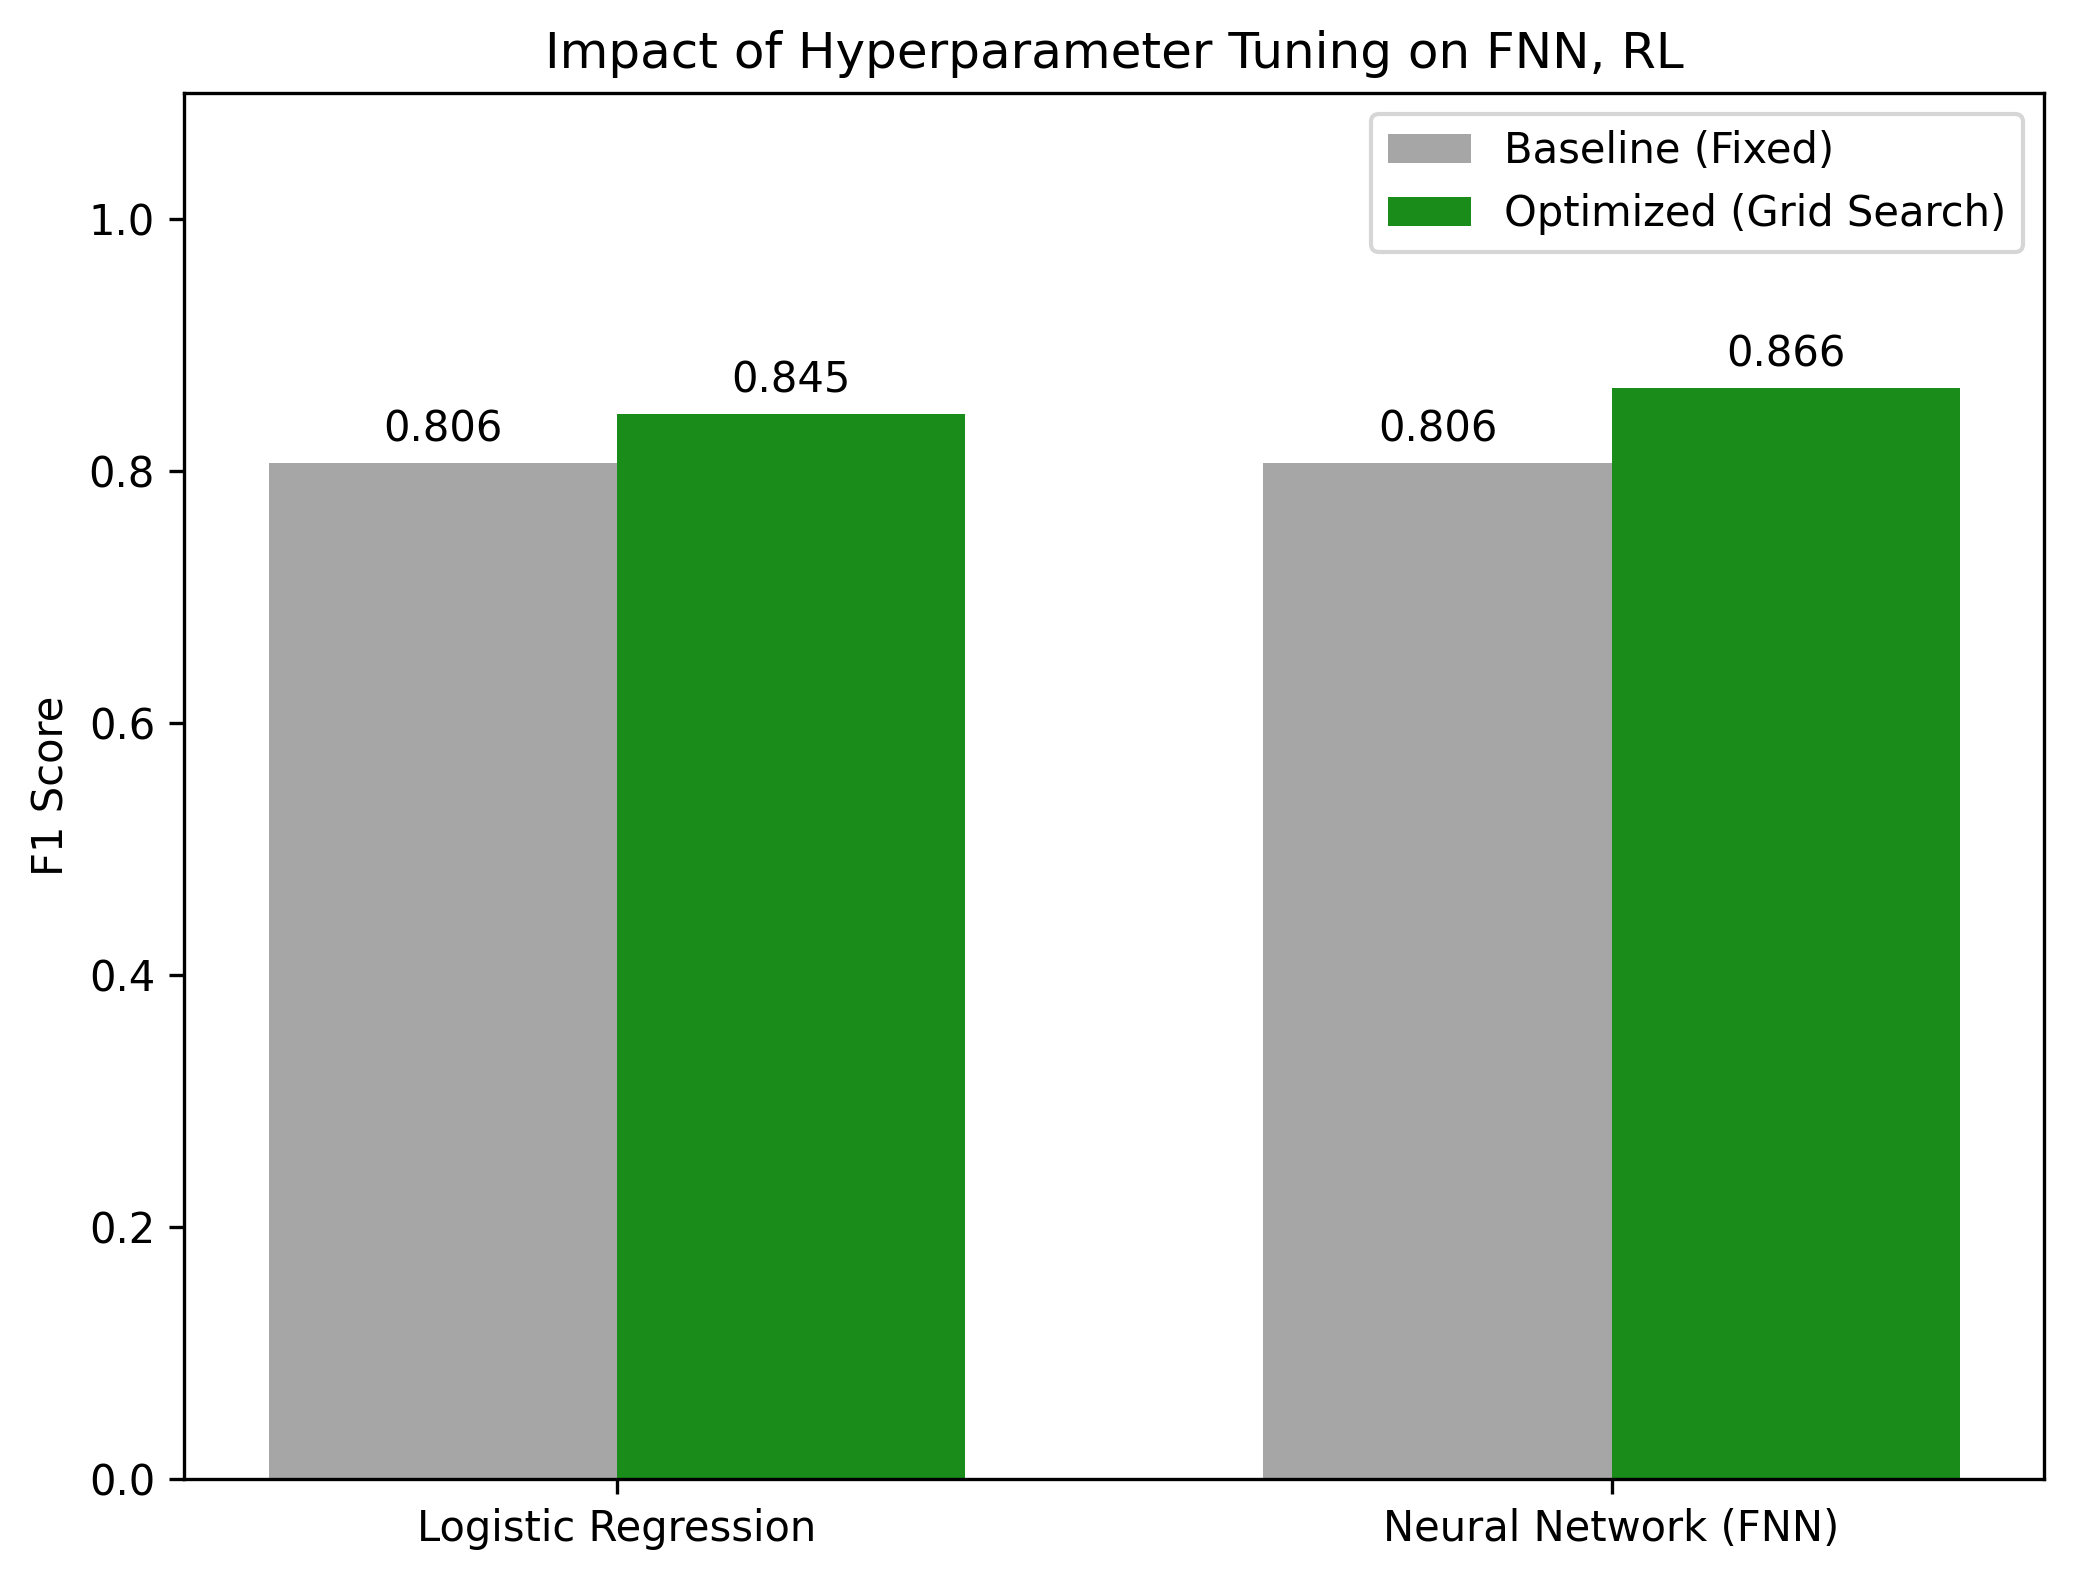
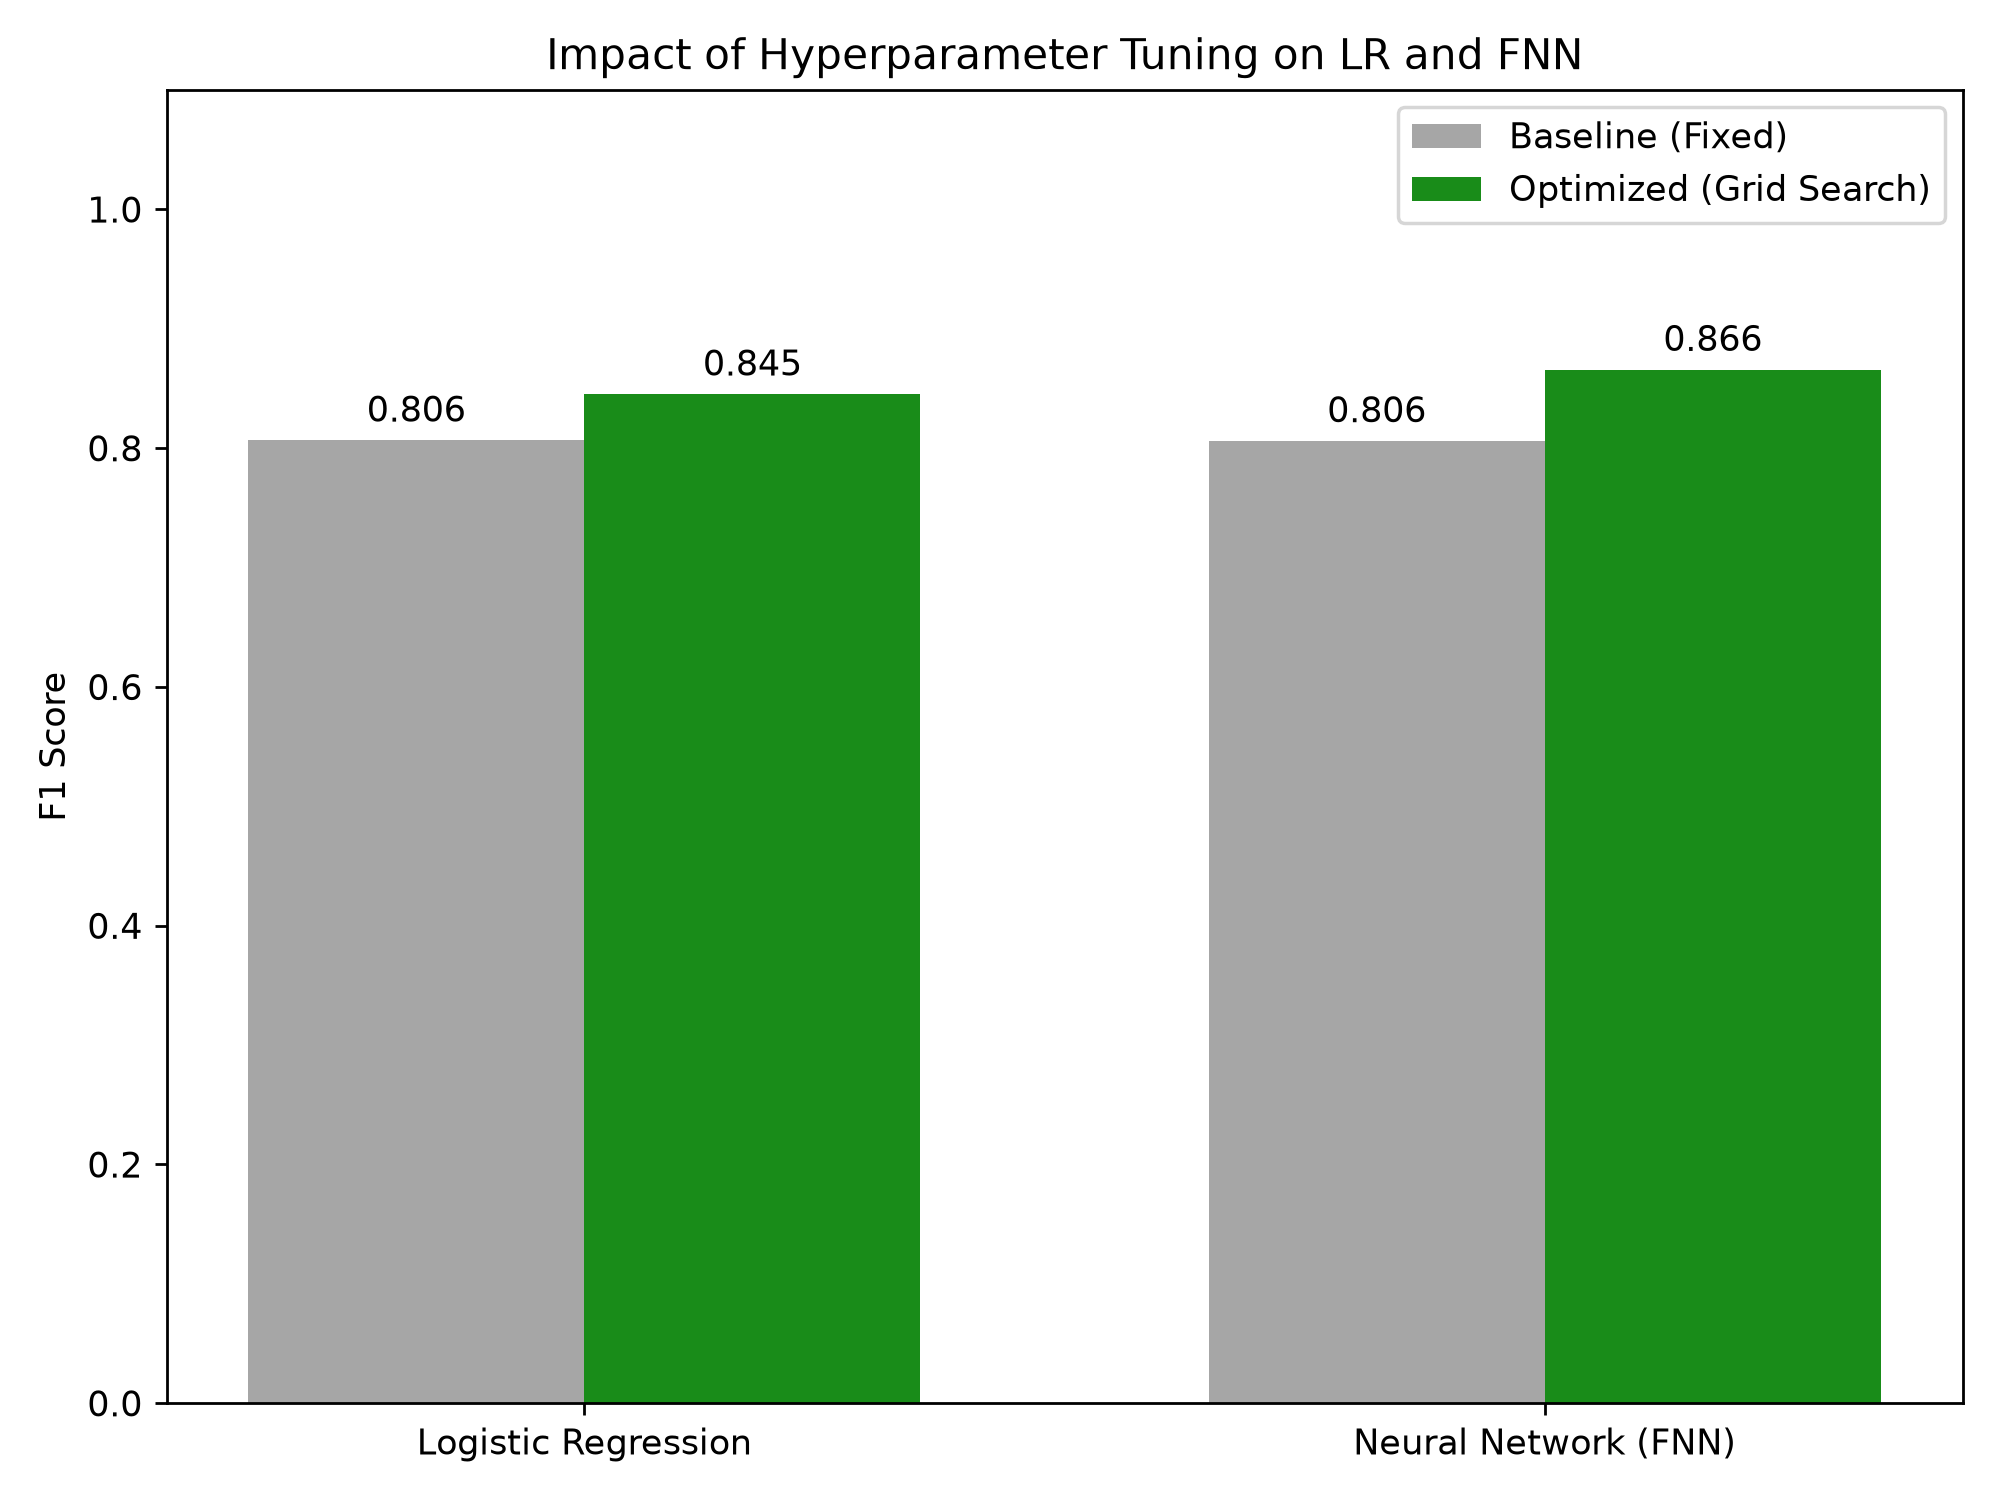
Regenerate stability figure and fix chart labels

diff --git a/neural_shadows.py b/neural_shadows.py
@@ -229,34 +229,34 @@ def run_single_trial(verbose=True):
 # -----------------------------------------------------------------------------
 # 5. EXPERIMENTS
 # -----------------------------------------------------------------------------
-METHODS = ["LogReg", "Random Forest", "FNN", "Shadow SVM"]
-COLORS = ["gray", "gray", "purple", "blue"]
+METHODS = ["Logistic regression", "Random forest", "Feedforward network", "RBF SVM"]
+COLORS = ["#9e9e9e", "#5f7f99", "#8e44ad", "#3f51b5"]
 
 
 def part_a(outdir):
     """Representative single trial; saves the dataset and a bar chart."""
     print("--- Executing Representative Trial ---")
     lr_s, rf_s, fnn_s, svm_s, X_final, y_final = run_single_trial()
-    print(f"Logistic Regression F1: {lr_s:.4f}")
-    print(f"Random Forest F1:       {rf_s:.4f}")
-    print(f"FNN F1 Score:           {fnn_s:.4f}")
-    print(f"Shadow SVM F1:          {svm_s:.4f}")
+    for name, score in zip(METHODS, (lr_s, rf_s, fnn_s, svm_s)):
+        print(f"{name + ':':<21}{score:.4f}")
 
     df = pd.DataFrame(X_final, columns=[f"feat_{i}" for i in range(16)])
     df["label"] = y_final
     df.to_csv(os.path.join(outdir, "quantum_shadow_dataset.csv"), index=False)
 
     scores = [lr_s, rf_s, fnn_s, svm_s]
-    plt.figure(figsize=(9, 5))
-    bars = plt.bar(METHODS, scores, color=COLORS)
-    plt.ylim(0, 1.05)
-    plt.ylabel("F1 Score")
-    plt.title(f"Single Trial Performance (N={N_SAMPLES}, T={T_SNAPSHOTS})")
+    fig, ax = plt.subplots(figsize=(9, 5))
+    bars = ax.bar(METHODS, scores, color=COLORS)
+    ax.set_ylim(0, 1.05)
+    ax.set_ylabel("F1 score")
+    ax.set_title(f"Single trial (N={N_SAMPLES}, T={T_SNAPSHOTS})")
     for bar in bars:
-        plt.text(bar.get_x() + bar.get_width() / 2, bar.get_height() + 0.01,
-                 f"{bar.get_height():.3f}", ha="center")
-    plt.savefig(os.path.join(outdir, "single_trial_plot.png"), dpi=200)
-    plt.close()
+        ax.text(bar.get_x() + bar.get_width() / 2, bar.get_height() + 0.01,
+                f"{bar.get_height():.3f}", ha="center")
+    ax.spines[["top", "right"]].set_visible(False)
+    fig.tight_layout()
+    fig.savefig(os.path.join(outdir, "single_trial_plot.png"), dpi=200)
+    plt.close(fig)
 
 
 def part_b(outdir, num_trials):
@@ -270,21 +270,28 @@ def part_b(outdir, num_trials):
         results["FNN"].append(fnn)
         results["SVM"].append(svm)
 
-    means = [np.mean(results[k]) for k in ("LR", "RF", "FNN", "SVM")]
-    stds = [np.std(results[k]) for k in ("LR", "RF", "FNN", "SVM")]
+    keys = ("LR", "RF", "FNN", "SVM")
+    means = [np.mean(results[k]) for k in keys]
+    stds = [np.std(results[k]) for k in keys]
     print("\n--- Aggregated Statistics (Mean ± Std) ---")
-    for name, m, s in zip(["Logistic Regression", "Random Forest", "FNN", "Shadow SVM"], means, stds):
+    for name, m, s in zip(METHODS, means, stds):
         print(f"{name + ':':<21}{m:.3f} ± {s:.3f}")
+    pd.DataFrame({name: results[k] for name, k in zip(METHODS, keys)}).to_csv(
+        os.path.join(outdir, "stability_scores.csv"), index=False)
 
-    plt.figure(figsize=(9, 6))
-    plt.bar(METHODS, means, yerr=stds, capsize=10, color=COLORS, alpha=0.8)
-    plt.ylim(0, 1.0)
-    plt.ylabel("Mean F1 Score")
-    plt.title(f"Model Stability ({num_trials} Trials)")
-    for i, v in enumerate(means):
-        plt.text(i, v + 0.05, f"{v:.2f}", ha="center", fontweight="bold")
-    plt.savefig(os.path.join(outdir, "stability_analysis_plot.png"), dpi=200)
-    plt.close()
+    fig, ax = plt.subplots(figsize=(9, 5.5))
+    x = np.arange(len(METHODS))
+    ax.bar(x, means, yerr=stds, capsize=8, color=COLORS, error_kw={"elinewidth": 1.5})
+    ax.set_xticks(x, METHODS)
+    ax.set_ylim(0, 1.0)
+    ax.set_ylabel("Mean F1 score (error bars: ±1 std)")
+    ax.set_title(f"Model stability over {num_trials} trials")
+    for i, (m, s) in enumerate(zip(means, stds)):
+        ax.text(i, m + s + 0.02, f"{m:.3f}", ha="center", va="bottom", fontweight="bold")
+    ax.spines[["top", "right"]].set_visible(False)
+    fig.tight_layout()
+    fig.savefig(os.path.join(outdir, "stability_analysis_plot.png"), dpi=200)
+    plt.close(fig)
 
 
 def main():

diff --git a/README.md b/README.md
@@ -16,14 +16,16 @@ Over 100 Monte Carlo trials, each with a fresh dataset and split, all four model
 
 | Model | Mean F1 ± std (100 trials) |
 | --- | --- |
-| Logistic regression | 0.802 ± 0.049 |
-| Random forest | 0.820 ± 0.044 |
-| Feedforward network | 0.814 ± 0.048 |
-| RBF SVM | 0.799 ± 0.053 |
+| Logistic regression | 0.812 ± 0.053 |
+| Random forest | 0.803 ± 0.054 |
+| Feedforward network | 0.821 ± 0.046 |
+| RBF SVM | 0.799 ± 0.096 |
 
 With 25 snapshots, the shadow-reconstructed density matrix already carries most of the usable signal, and a linear model is competitive. Extra model capacity does not buy measurable accuracy at this sample size.
 
 ![Stability over 100 trials](figures/stability_analysis_plot.png)
+
+The table and figure come from the same run, `python neural_shadows.py --seed 7`; per-trial scores are in [`data/stability_scores.csv`](data/stability_scores.csv).
 
 A supplementary notebook grid-searches logistic regression and the network on one saved dataset. Gains from tuning on a single 50-state test split (shown below for the saved run) are about the size of the trial-to-trial spread above, so they are indicative only.
 
@@ -46,9 +48,10 @@ The script writes the dataset and both figures to `results/`. Flags: `--samples`
 | Path | Contents |
 | --- | --- |
 | [`neural_shadows.py`](neural_shadows.py) | Simulation, features, models, and both experiments as a command-line script |
-| [`notebooks/neural_shadows.ipynb`](notebooks/neural_shadows.ipynb) | The original notebook, with the outputs reported above |
+| [`notebooks/neural_shadows.ipynb`](notebooks/neural_shadows.ipynb) | The original course notebook and its saved outputs |
 | [`notebooks/hyperparameter_tuning.ipynb`](notebooks/hyperparameter_tuning.ipynb) | Grid search for logistic regression and the network on `data/` |
 | [`data/quantum_shadow_dataset.csv`](data/quantum_shadow_dataset.csv) | 250 labeled feature vectors from the representative run |
+| [`data/stability_scores.csv`](data/stability_scores.csv) | Per-trial F1 scores behind the stability table and figure |
 | [`docs/neural-shadows-report.pdf`](docs/neural-shadows-report.pdf) | Full report |
 
 ## Author
